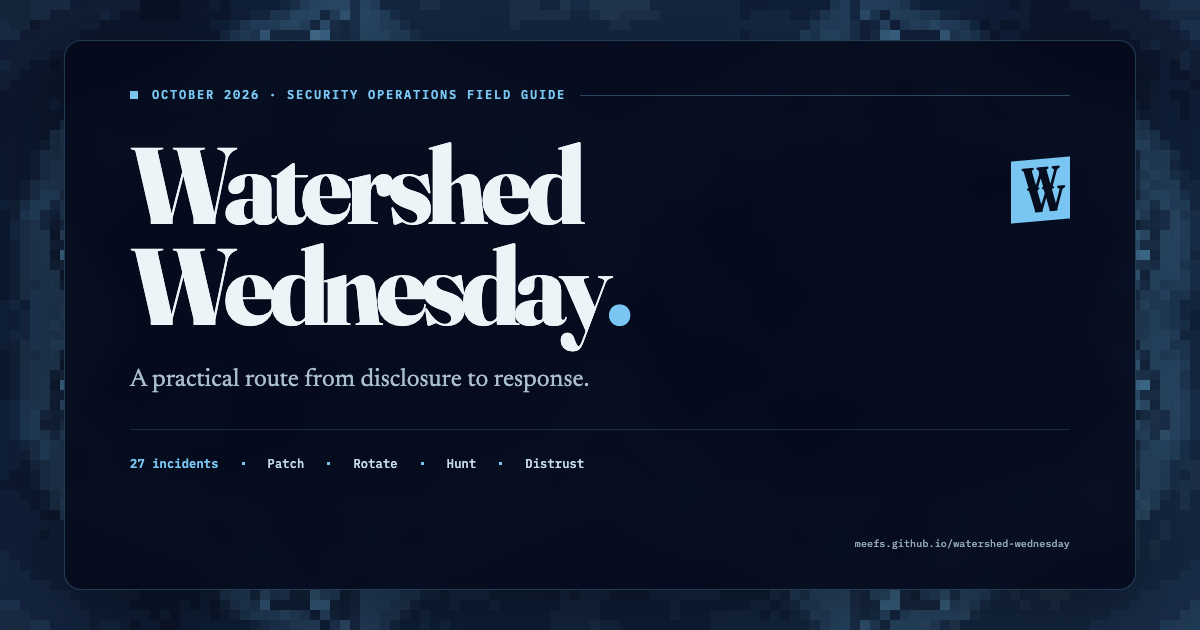
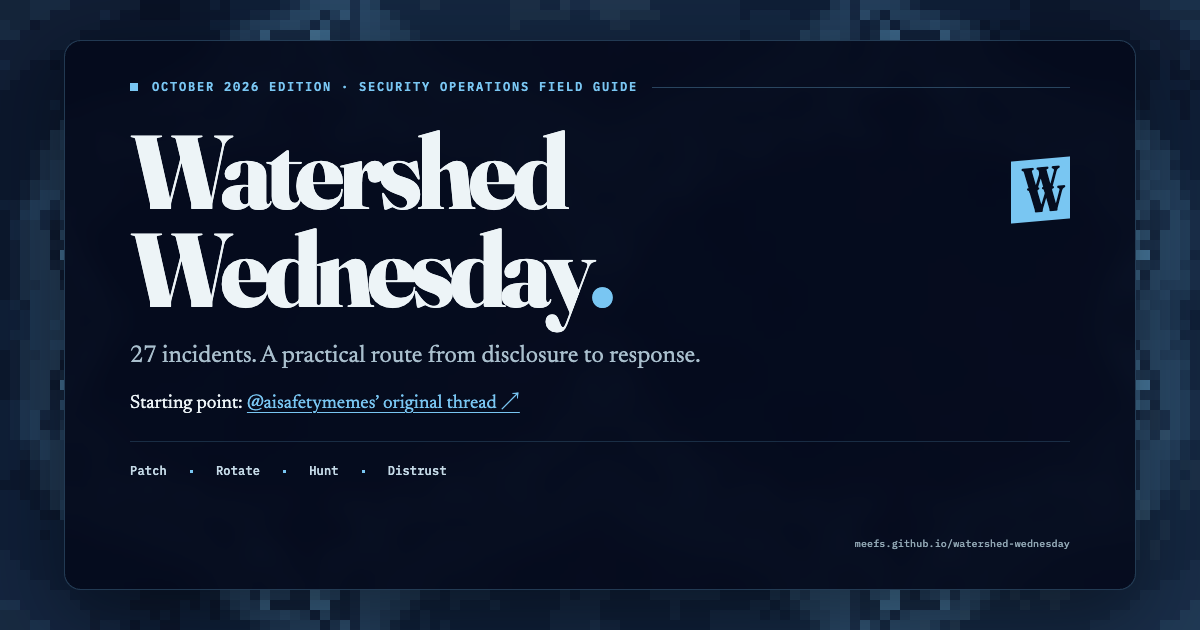
Match social preview to homepage introduction and attribution

diff --git a/site/social-preview.html b/site/social-preview.html
@@ -2,9 +2,9 @@
 <html lang="en"><head><meta charset="utf-8"><meta name="viewport" content="width=1200,initial-scale=1"><title>Watershed Wednesday · Social preview source</title>
 <link rel="preconnect" href="https://fonts.googleapis.com"><link rel="preconnect" href="https://fonts.gstatic.com" crossorigin><link href="https://fonts.googleapis.com/css2?family=Fraunces:opsz,wght@9..144,800&family=IBM+Plex+Mono:wght@500;600&family=Newsreader:opsz,wght@6..72,400;6..72,500&display=swap" rel="stylesheet">
 <style>
-*{box-sizing:border-box}html,body{margin:0;width:1200px;height:630px;overflow:hidden;background:#060d1f;color:#edf4f7}canvas{position:absolute;inset:0;width:1200px;height:630px;image-rendering:pixelated}.sheet{position:absolute;inset:40px 64px;background:rgba(4,10,28,.91);border:1px solid rgba(121,198,242,.25);border-radius:17px;box-shadow:0 25px 70px #0005;backdrop-filter:blur(12px)}.content{position:absolute;inset:0;padding:87px 130px 72px}.eyebrow{display:flex;align-items:center;gap:14px;color:#79c6f2;font:600 12px/1.4 'IBM Plex Mono',monospace;letter-spacing:.15em;text-transform:uppercase;margin:0 0 31px}.eyebrow:before{content:'';width:8px;height:8px;background:#79c6f2;flex-shrink:0}.eyebrow:after{content:'';height:1px;flex:1;background:#79c6f24d}h1{font:800 108px/.94 'Fraunces',Georgia,serif;letter-spacing:-.052em;margin:0 0 25px}h1 span{color:#79c6f2}.dek{font:400 25px/1.4 'Newsreader',Georgia,serif;margin:0;color:#a9bfcd}.rule{height:1px;background:#79c6f22d;margin:31px 0 25px}.operations{display:flex;align-items:center;gap:23px;font:500 12px/1.5 'IBM Plex Mono',monospace;letter-spacing:.015em;color:#c5dae7}.operations strong{font-weight:600;color:#79c6f2}.operations i{width:3px;height:3px;background:#79c6f2;display:block}.url{position:absolute;right:130px;bottom:69px;font:500 10px/1.4 'IBM Plex Mono',monospace;color:#90a6b3;letter-spacing:.015em}.brand{position:absolute;right:130px;top:159px;width:59px;height:62px;display:flex;align-items:center;justify-content:center;flex-direction:column;background:#79c6f2;color:#060d1f;transform:skewY(-5deg);font:800 35px/.57 'Fraunces',Georgia,serif}.brand span{margin-left:11px}
+*{box-sizing:border-box}html,body{margin:0;width:1200px;height:630px;overflow:hidden;background:#060d1f;color:#edf4f7}canvas{position:absolute;inset:0;width:1200px;height:630px;image-rendering:pixelated}.sheet{position:absolute;inset:40px 64px;background:rgba(4,10,28,.91);border:1px solid rgba(121,198,242,.25);border-radius:17px;box-shadow:0 25px 70px #0005;backdrop-filter:blur(12px)}.content{position:absolute;inset:0;padding:79px 130px 72px}.eyebrow{display:flex;align-items:center;gap:14px;color:#79c6f2;font:600 12px/1.4 'IBM Plex Mono',monospace;letter-spacing:.15em;text-transform:uppercase;margin:0 0 27px}.eyebrow:before{content:'';width:8px;height:8px;background:#79c6f2;flex-shrink:0}.eyebrow:after{content:'';height:1px;flex:1;background:#79c6f24d}h1{font:800 104px/.94 'Fraunces',Georgia,serif;letter-spacing:-.052em;margin:0 0 22px}h1 span{color:#79c6f2}.dek{font:400 24px/1.4 'Newsreader',Georgia,serif;margin:0;color:#a9bfcd}.origin{font:400 19px/1.45 'Newsreader',Georgia,serif;margin:16px 0 0;color:#edf4f7}.origin a{color:#79c6f2;text-decoration:underline;text-decoration-thickness:1px;text-underline-offset:4px}.rule{height:1px;background:#79c6f22d;margin:24px 0 20px}.operations{display:flex;align-items:center;gap:23px;font:500 12px/1.5 'IBM Plex Mono',monospace;letter-spacing:.015em;color:#c5dae7}.operations strong{font-weight:600;color:#79c6f2}.operations i{width:3px;height:3px;background:#79c6f2;display:block}.url{position:absolute;right:130px;bottom:69px;font:500 10px/1.4 'IBM Plex Mono',monospace;color:#90a6b3;letter-spacing:.015em}.brand{position:absolute;right:130px;top:159px;width:59px;height:62px;display:flex;align-items:center;justify-content:center;flex-direction:column;background:#79c6f2;color:#060d1f;transform:skewY(-5deg);font:800 35px/.57 'Fraunces',Georgia,serif}.brand span{margin-left:11px}
 </style></head><body>
-<canvas id="terrain" width="1200" height="630" aria-hidden="true"></canvas><canvas id="fractal" width="1200" height="630" aria-hidden="true"></canvas><div class="sheet"></div><main class="content"><p class="eyebrow">October 2026 · Security operations field guide</p><h1>Watershed<br>Wednesday<span>.</span></h1><p class="dek">A practical route from disclosure to response.</p><div class="rule"></div><div class="operations"><strong>27 incidents</strong><i></i><span>Patch</span><i></i><span>Rotate</span><i></i><span>Hunt</span><i></i><span>Distrust</span></div></main><div class="brand" aria-hidden="true">W<span>W</span></div><p class="url">meefs.github.io/watershed-wednesday</p>
+<canvas id="terrain" width="1200" height="630" aria-hidden="true"></canvas><canvas id="fractal" width="1200" height="630" aria-hidden="true"></canvas><div class="sheet"></div><main class="content"><p class="eyebrow">October 2026 edition · Security operations field guide</p><h1>Watershed<br>Wednesday<span>.</span></h1><p class="dek">27 incidents. A practical route from disclosure to response.</p><p class="origin">Starting point: <a href="https://x.com/aisafetymemes/status/2113113711644737835">@aisafetymemes’ original thread ↗</a></p><div class="rule"></div><div class="operations"><span>Patch</span><i></i><span>Rotate</span><i></i><span>Hunt</span><i></i><span>Distrust</span></div></main><div class="brand" aria-hidden="true">W<span>W</span></div><p class="url">meefs.github.io/watershed-wednesday</p>
 <script>
 // Deterministic, static counterpart of the site's seeded MARPAT and mirrored
 // Mandelbrot field. Native canvas drawing keeps the exported PNG self-contained.
